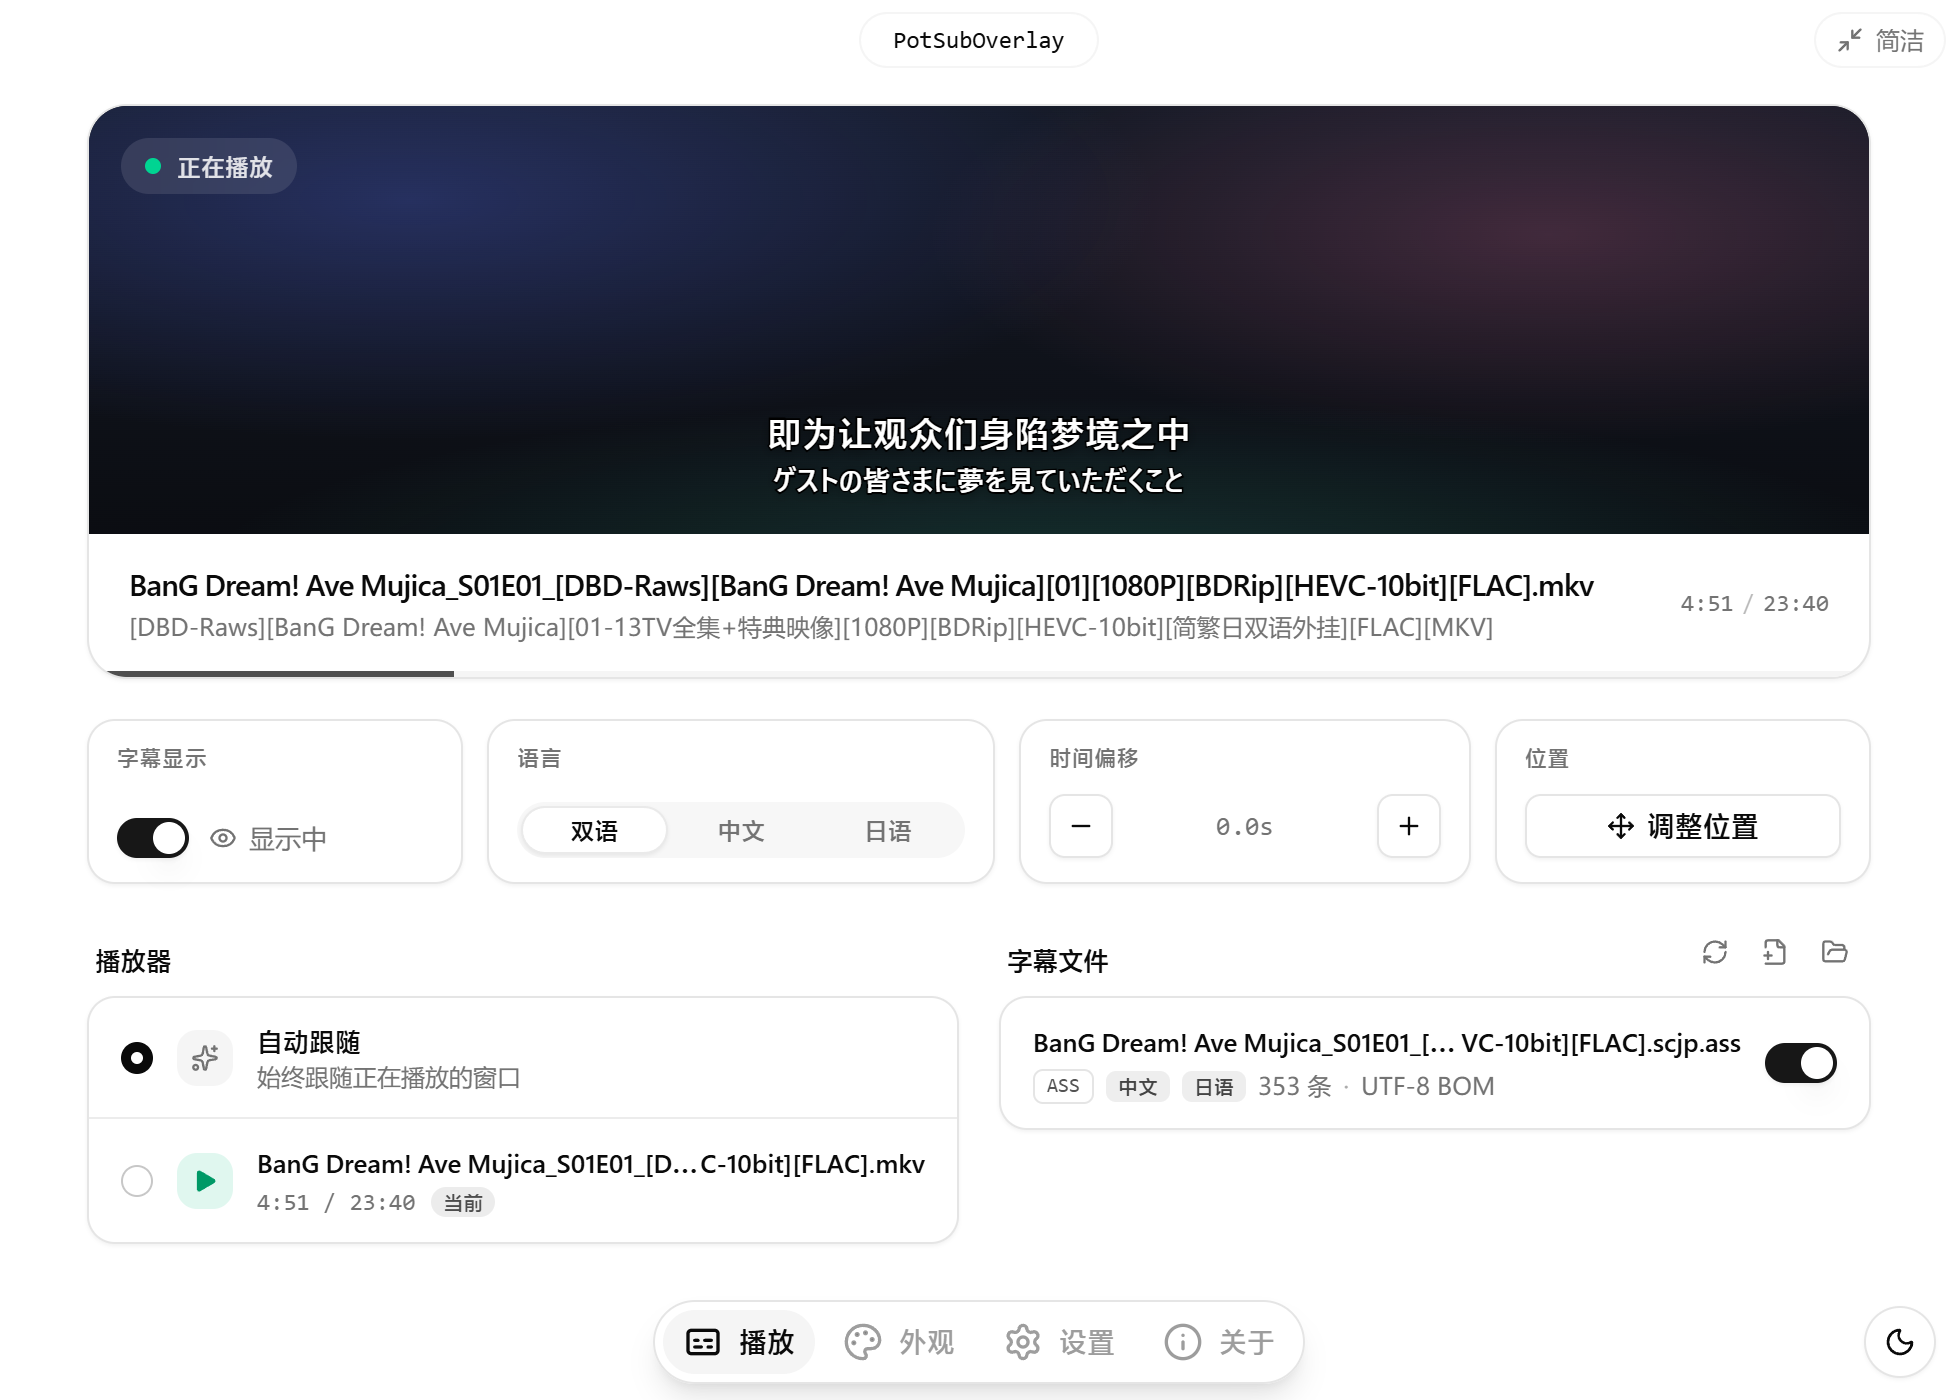
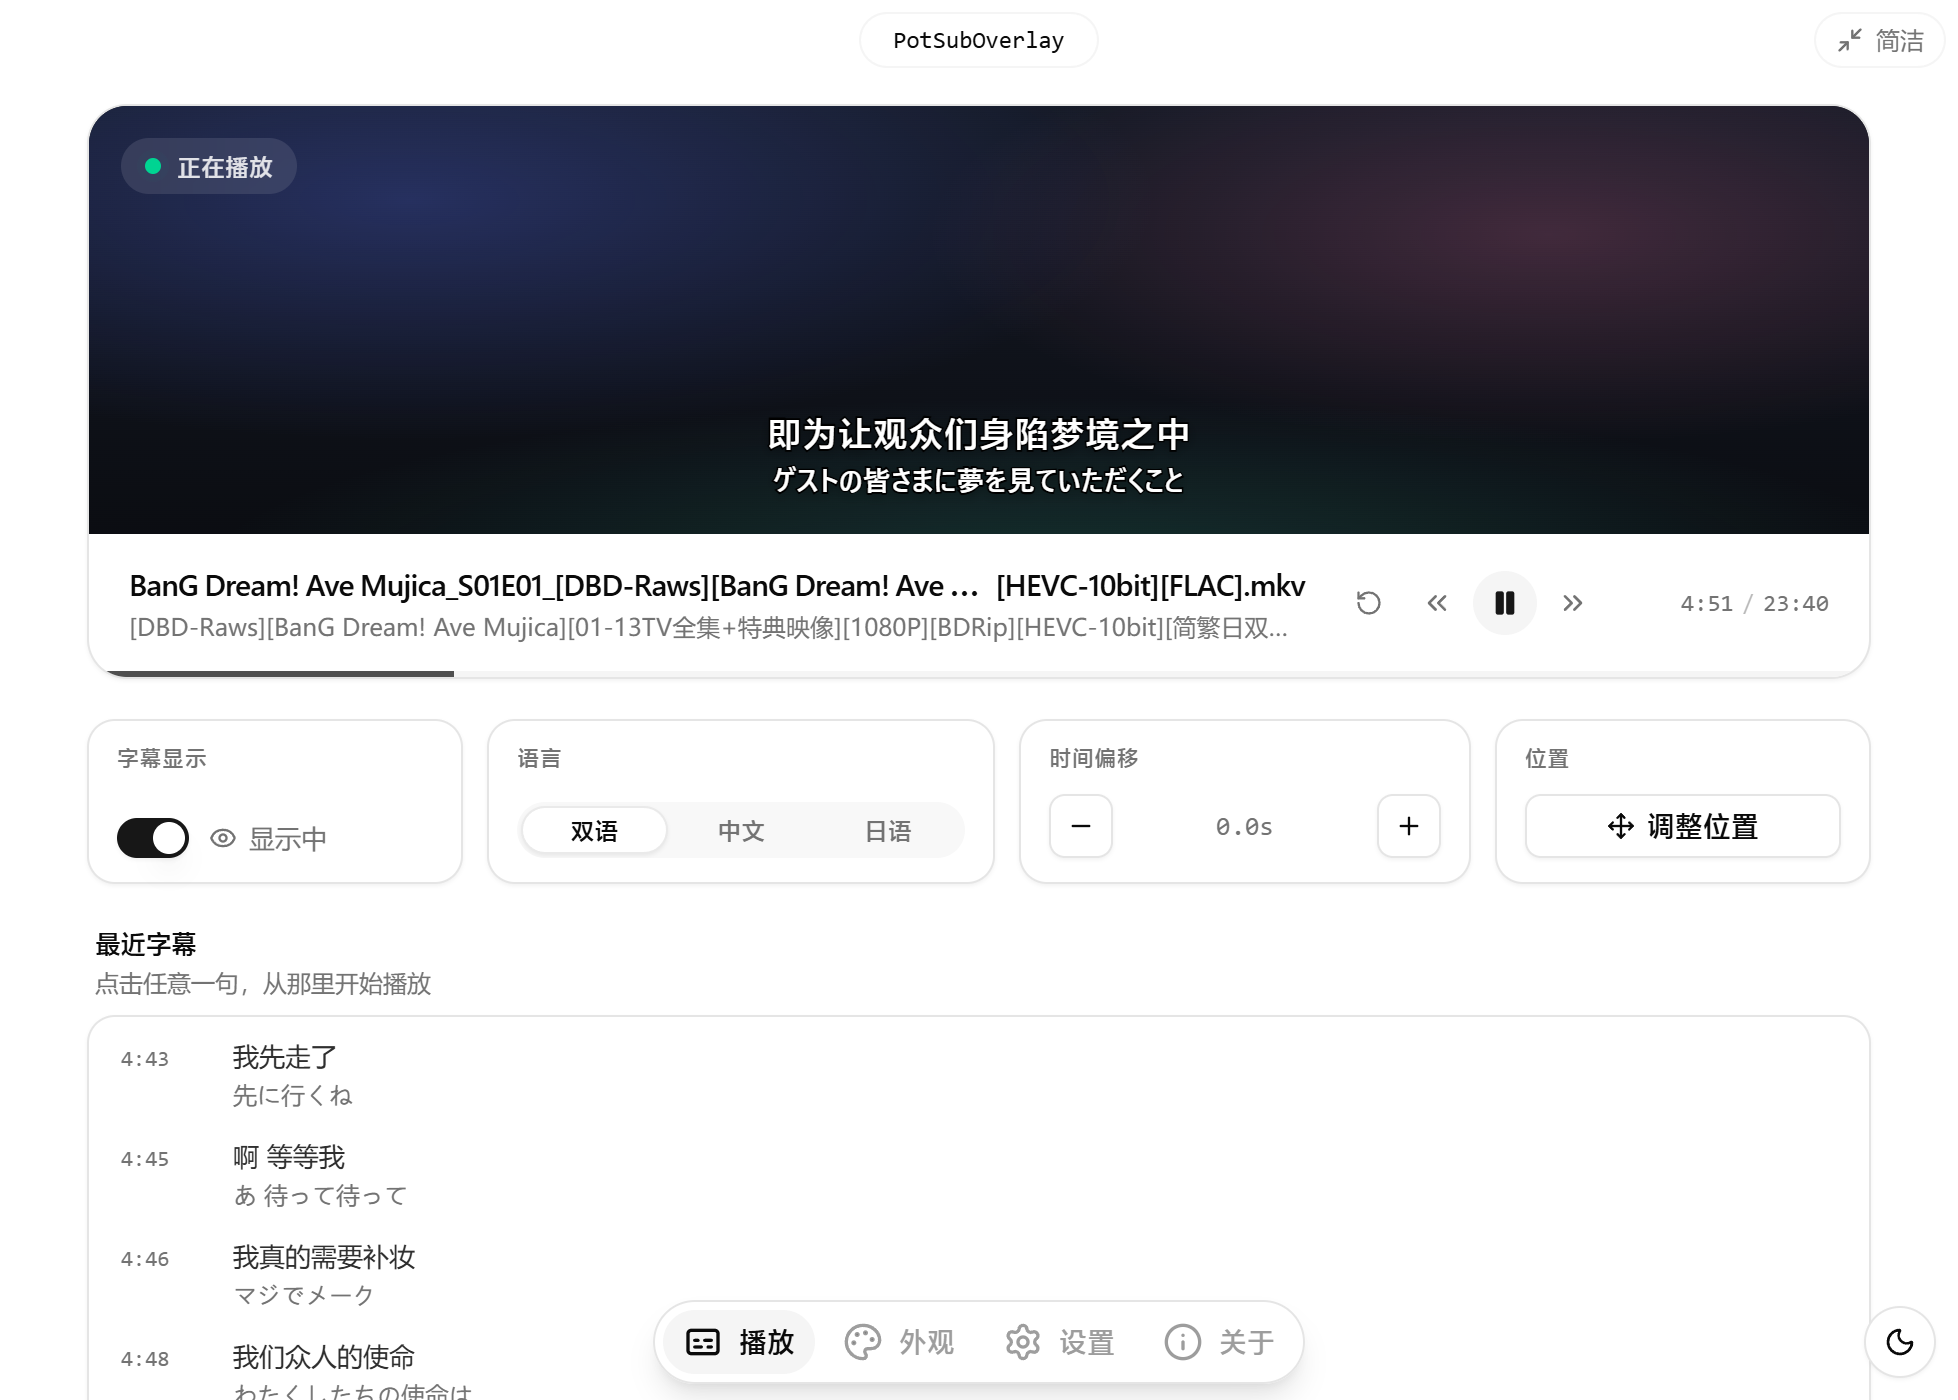
docs: refresh README screenshots for 1.2.0

diff --git a/README.md b/README.md
@@ -46,9 +46,11 @@
 
 - 简体中文 / 繁體中文 / English / 日本語 界面，浅色 / 深色主题，托盘常驻（菜单与应用同一套设计），开机启动。
 
-| 外观设置（深色） | 调整字幕位置 |
+![游戏中：按 Ctrl+Alt+↑ 回看上一句，播放控制后显示操作提示](docs/images/recall.png)
+
+| 外观设置（深色） | 调整字幕位置（可只用于当前游戏） |
 |---|---|
-| ![外观设置：主语言与第二语言分别设置样式](docs/images/appearance-dark.png) | ![调整字幕位置：拖动移动、拖动两侧调整宽度](docs/images/edit-position.png) |
+| ![外观设置：主语言与第二语言分别设置样式和不透明度](docs/images/appearance-dark.png) | ![调整字幕位置：拖动移动、拖动两侧调整宽度，可选择只用于当前游戏](docs/images/edit-position.png) |
 | **简洁模式（中英双语）** | **托盘菜单** |
 | ![简洁模式：中英双语字幕](docs/images/compact.png) | ![托盘菜单](docs/images/tray-menu.png) |
 

diff --git a/CHANGELOG.md b/CHANGELOG.md
@@ -2,6 +2,12 @@
 
 本项目的所有重要更改都将记录在此文件中。格式参考 [Keep a Changelog](https://keepachangelog.com/zh-CN/1.1.0/)，版本号遵循 [语义化版本](https://semver.org/lang/zh-CN/)。
 
+## [Unreleased]
+
+### 测试与文档
+
+- 更新 README 截图：播放页（播放控制按钮、最近字幕）、外观设置（文字与描边不透明度）、调整位置（「用于」切换）、简洁模式（播放 / 暂停按钮），并新增回看上一句与操作提示的截图
+
 ## [1.2.0] - 2026-10-08
 
 ### 新增
